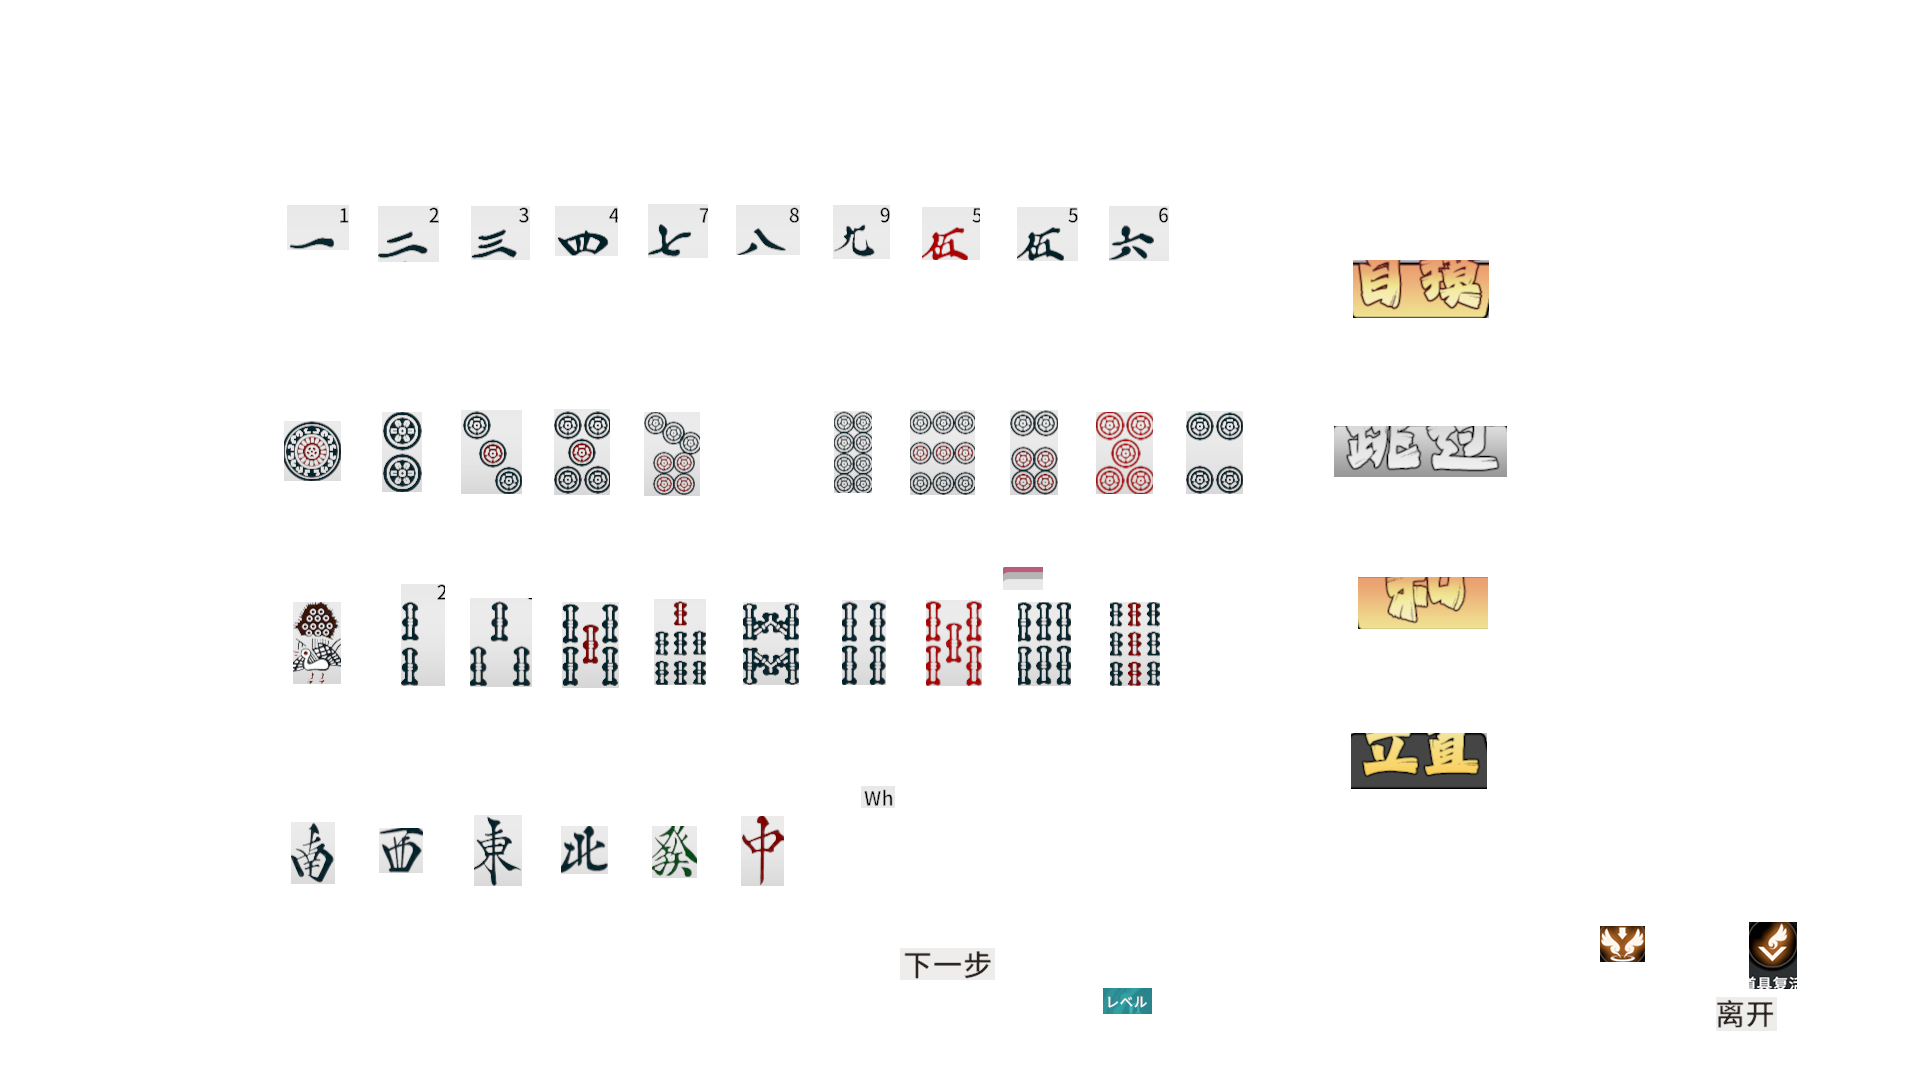
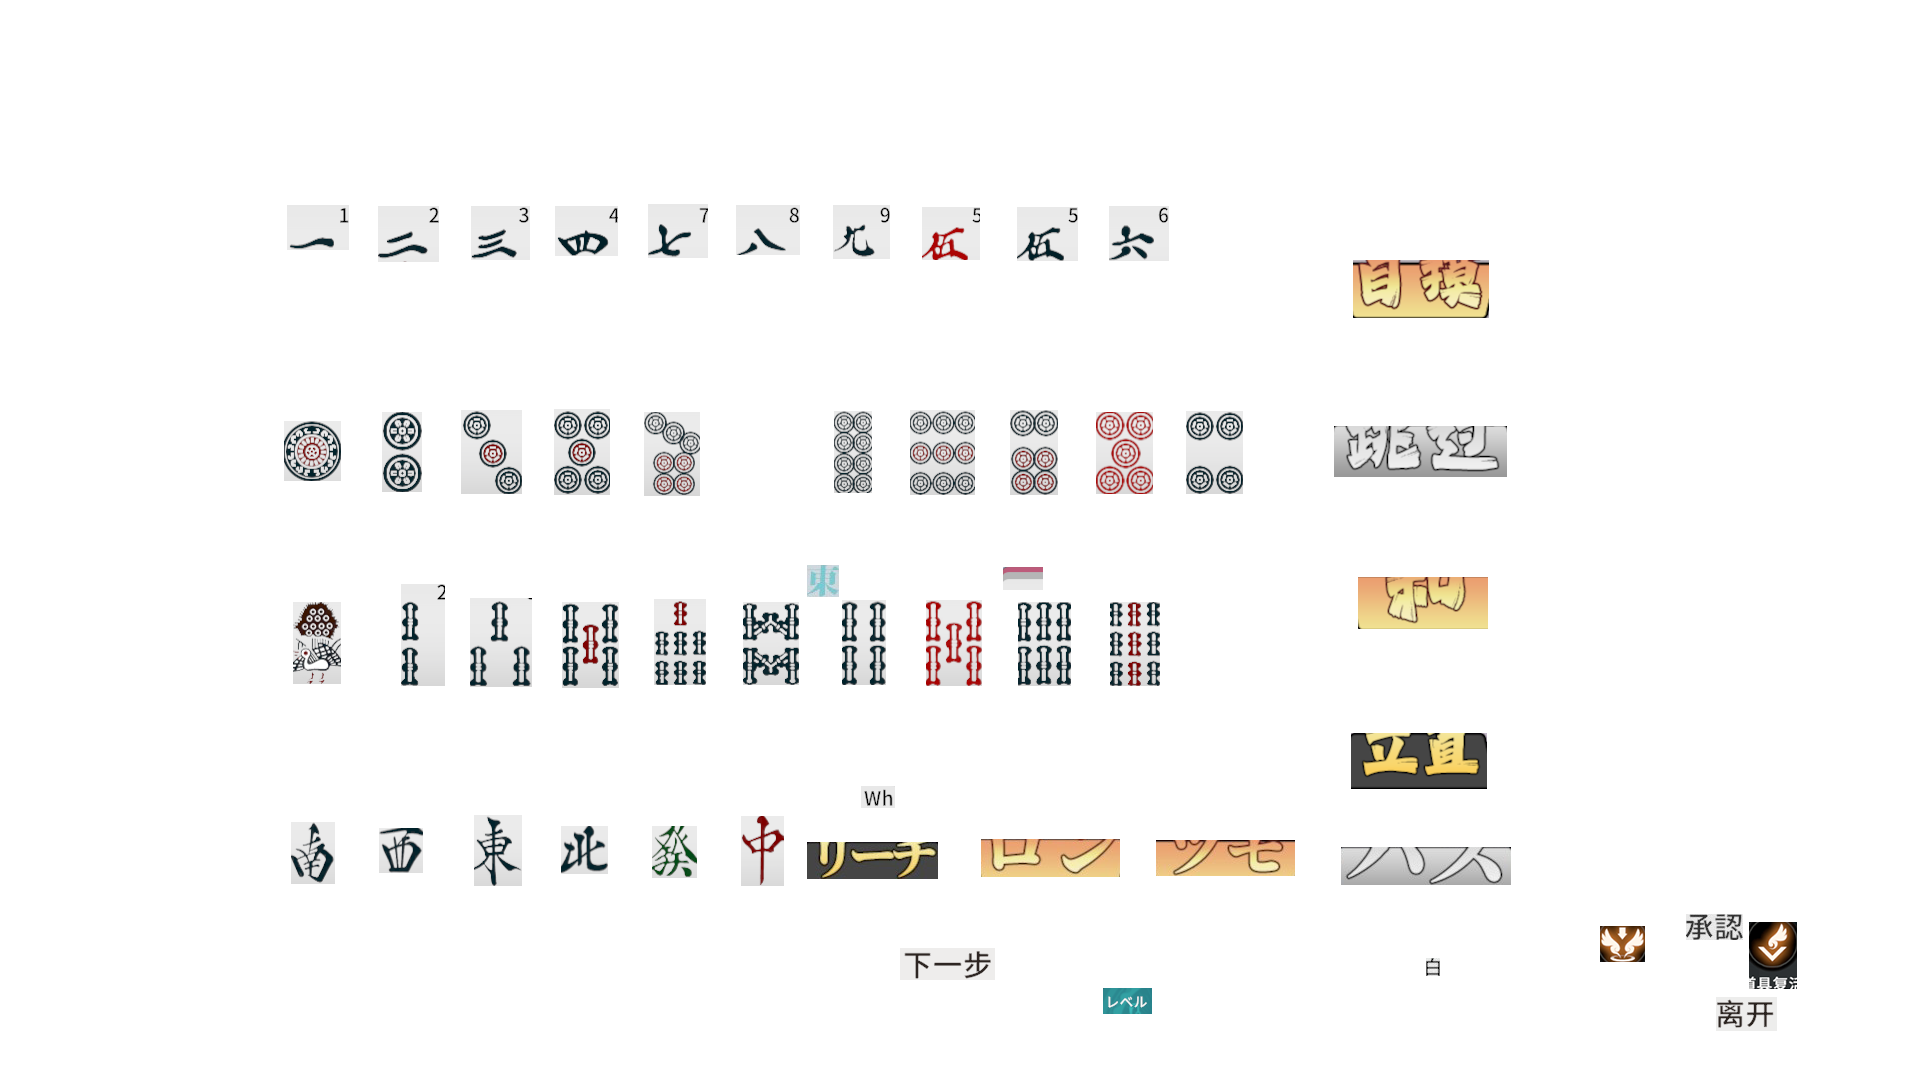
Add Japanese support for Mahjong task

diff --git a/src/tasks/MahjongTask.py b/src/tasks/MahjongTask.py
@@ -30,21 +30,25 @@ class MahjongTask(SRTask):
         self.last_confirm = datetime.min
         self.info['Hora Count'] = 0
         self._fail_count = 0
-        language = self.get_game_language()
 
-        mahjong_matching = 'mahjong_matching'
+        lang = self.get_game_language()
         confirm = 'confirm'
         accept = 'accept'
-        if language == 'en':
-            mahjong_matching = 'mahjong_matching_en'
+        if lang == 'en':
             confirm = 'confirm_en'
             accept = 'accept_en'
+        elif lang =='jp':
+            # confirm = 'confirm_jp'
+            accept = 'accept_jp'
+        elif lang == 'zht':
+            confirm = 'confirm_zht'
+
         while True:
             self.next_frame()
             self.run_game()
             if (
             box := self.find_one('mahjong_match', box=self.box_of_screen(0.73, 0.5, 0.77, 0.68))) and not self.find_one(
-                    mahjong_matching):
+                    'matching'):
                 if datetime.now() - self.last_confirm > timedelta(seconds=30):
                     self.send_key_down('lalt')
                     self.sleep(0.1)
@@ -69,12 +73,27 @@ class MahjongTask(SRTask):
 
     def run_game(self):
         lang = self.get_game_language()
-        maj_skip = 'maj_skip' if lang in ['zhs', 'zht'] else 'maj_skip_en'
-        maj_riichi = 'maj_riichi' if lang in ['zhs', 'zht'] else 'maj_riichi_en'
-        maj_tsumo = 'maj_tsumo' if lang in ['zhs', 'zht'] else 'maj_tsumo_en'
-        maj_ron = 'maj_ron' if lang in ['zhs', 'zht'] else 'maj_ron_en'
-        maj_auto_tsumogiri = 'maj_auto_tsumogiri' if lang in ['zhs', 'zht'] else 'maj_auto_tsumogiri_en'
-        maj_east = 'maj_east' if lang in ['zhs', 'zht'] else 'maj_east_en'
+
+        maj_skip = 'maj_skip'
+        maj_riichi = 'maj_riichi'
+        maj_tsumo = 'maj_tsumo'
+        maj_ron = 'maj_ron'
+        maj_auto_tsumogiri = 'maj_auto_tsumogiri'
+        maj_east = 'maj_east'
+
+        if lang == 'jp':
+            maj_skip = 'maj_skip_jp'
+            maj_riichi = 'maj_riichi_jp'
+            maj_tsumo = 'maj_tsumo_jp'
+            maj_ron = 'maj_ron_jp'
+            maj_east = 'maj_east_jp'
+        elif lang == 'en':
+            maj_skip = 'maj_skip_en'
+            maj_riichi = 'maj_riichi_en'
+            maj_tsumo = 'maj_tsumo_en'
+            maj_ron = 'maj_ron_en'
+            maj_auto_tsumogiri = 'maj_auto_tsumogiri_en'
+            maj_east = 'maj_east_en'
 
         if skip_box := self.find_one([maj_skip], box=self.box_of_screen(0.48, 0.75, 0.89, 0.85)):
             self.sleep(0.2)
@@ -113,10 +132,10 @@ class MahjongTask(SRTask):
 
     def discard_tile(self):
         lang = self.get_game_language()
-        maj_auto_tsumogiri = 'maj_auto_tsumogiri' if lang in ['zhs', 'zht'] else 'maj_auto_tsumogiri_en'
+        maj_auto_tsumogiri = 'maj_auto_tsumogiri_en' if lang == 'en' else 'maj_auto_tsumogiri'
 
         tiles = self.get_tiles()
-        tiles_str = "".join(tile.name.removeprefix('maj_') for tile in tiles)
+        tiles_str = "".join(tile.name.removeprefix('maj_').removesuffix('_jp') for tile in tiles)
         self.info['Tiles'] = tiles_str
 
         if not len(tiles) == 14:
@@ -153,7 +172,7 @@ class MahjongTask(SRTask):
         # 只做断幺逻辑
         if self.config.get('Only Tanyao'):
             yaoqiuhai = {'1m', '9m', '1p', '9p', '1s', '9s', '1z', '2z', '3z', '4z', '5z', '6z', '7z'}
-            hand_tile_names = [tile.name.removeprefix('maj_') for tile in tiles]
+            hand_tile_names = [tile.name.removeprefix('maj_').removesuffix('_jp') for tile in tiles]
             tanyao_targets = set(hand_tile_names).intersection(yaoqiuhai)
 
             # 如果手牌中存在幺九牌，则只允许从幺九牌中选择打出
@@ -217,6 +236,8 @@ class MahjongTask(SRTask):
         if best_discard in {'5m', '5s', '5p'}:
             red_tile = 'maj_' + best_discard.replace('5', '0')
             tiles.append(red_tile)
+        if best_discard == '5z':
+            tiles.append('maj_5z_jp')
 
         if box := self.find_one(tiles, box=self.box_of_screen(0.193, 0.87, 0.875, 1.00), threshold=0.95):
             self.click(box)
@@ -236,7 +257,7 @@ class MahjongTask(SRTask):
             'maj_1m', 'maj_2m', 'maj_3m', 'maj_4m', 'maj_5m', 'maj_0m', 'maj_6m', 'maj_7m', 'maj_8m', 'maj_9m',
             'maj_1p', 'maj_2p', 'maj_3p', 'maj_4p', 'maj_5p', 'maj_0p', 'maj_6p', 'maj_7p', 'maj_8p', 'maj_9p',
             'maj_1s', 'maj_2s', 'maj_3s', 'maj_4s', 'maj_5s', 'maj_0s', 'maj_6s', 'maj_7s', 'maj_8s', 'maj_9s',
-            'maj_1z', 'maj_2z', 'maj_3z', 'maj_4z', 'maj_5z', 'maj_6z', 'maj_7z',
+            'maj_1z', 'maj_2z', 'maj_3z', 'maj_4z', 'maj_5z', 'maj_5z_jp', 'maj_6z', 'maj_7z',
         ]
         hand_boxes_list = [
             self.box_of_screen(0.193, 0.87, 0.239, 1.0),

diff --git a/src/tasks/MissionEntryTask.py b/src/tasks/MissionEntryTask.py
@@ -47,5 +47,7 @@ class MissionEntryTask(SRTriggerTask):
             return self.find_one("accept")
         elif language == 'en':
             return self.find_one("accept_en")
+        elif language == 'jp':
+            return self.find_one("accept_jp")
         else:
             return None
